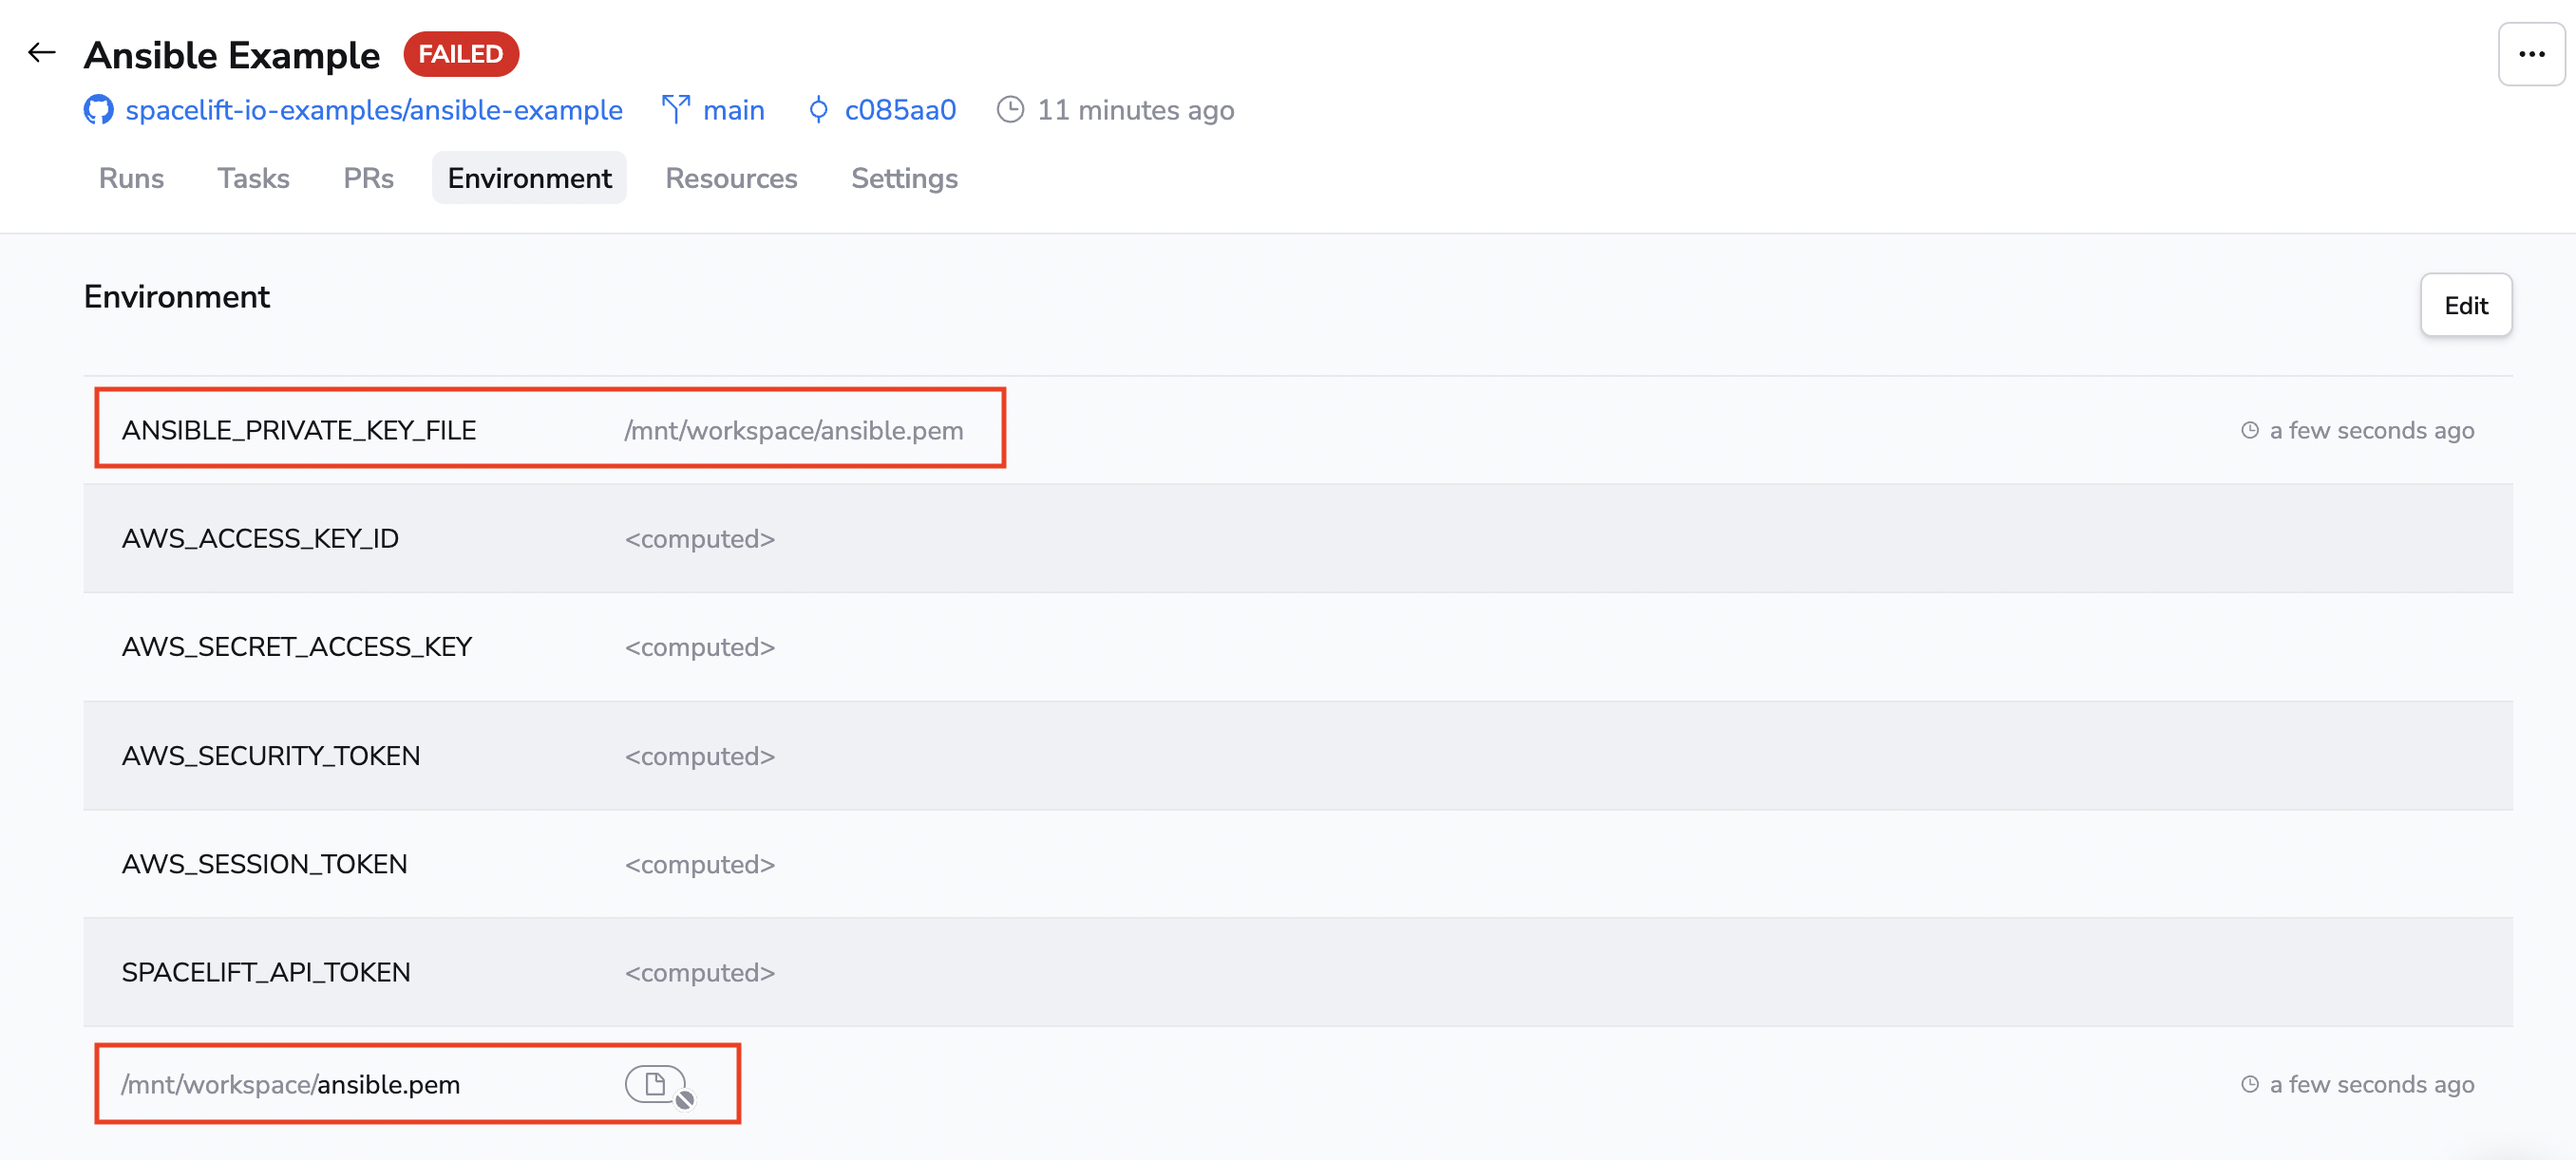
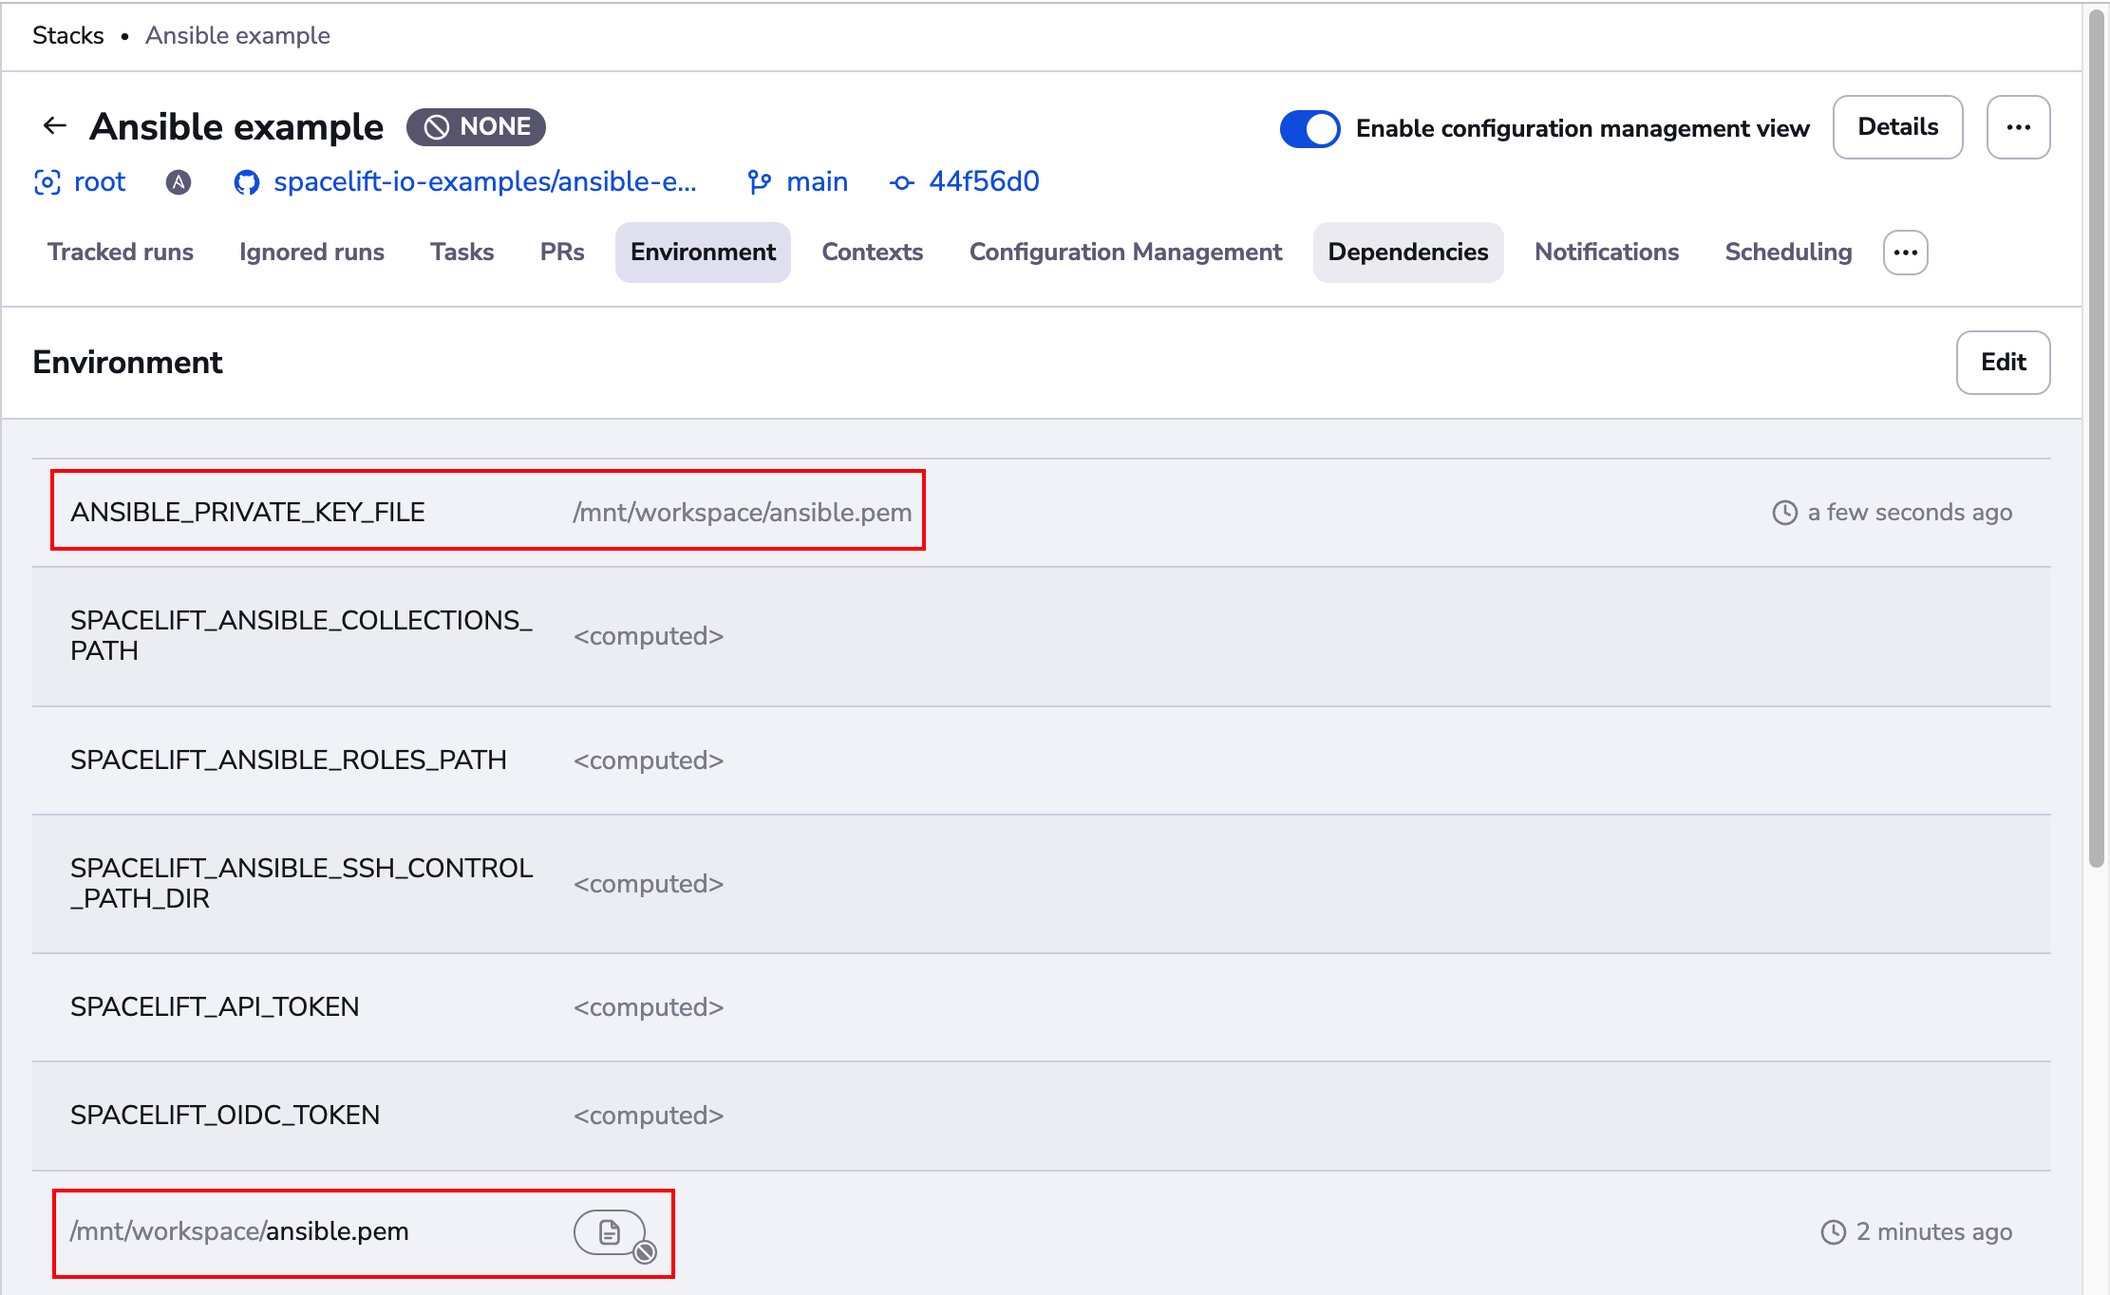
feat: update screenshots on the Ansible getting started guide
I've updated some of the screenshots on the Ansible getting started page. There are still some screenshots that are out of date right now, but I wanted to tackle the quick win ones that were misleading right now.

diff --git a/docs/vendors/ansible/getting-started.md b/docs/vendors/ansible/getting-started.md
@@ -20,23 +20,27 @@ Also, please take notice of the [Spacelift runtime config file](https://github.c
 
 In Spacelift, go ahead and click the **Add Stack** button to create a Stack in Spacelift.
 
-In the first tab, you should select the repository you've just forked, as can be seen in the picture.
+In the first step of the stack creation wizard, choose a name for your stack:
 
 ![Configuring the VCS settings.](../../assets/screenshots/ansible/ansible-1-create-new-stack.png)
 
-In the next tab, you should choose the **Ansible** backend. There, fill in the **Playbook** field with the playbook you want to run. In the case of our example, it is _playbook.yml_. You could also configure an option to [skip the planning phase](reference.md#stack-settings), but we will leave that disabled for now.
+In the next step, choose the repository that you have just cloned:
 
-![Configuring the backend settings.](../../assets/screenshots/ansible/ansible-2-configure-backend.png)
+![Choose GitHub repository](../../assets/screenshots/ansible/ansible-2-connect-to-source-code.png)
 
-On the next tab (**Define Behavior**), setting up a runner image with Ansible dependencies is required. You may use your image (with the Ansible version you choose and all the required dependencies) or use one of our [default ones](https://github.com/spacelift-io/runner-ansible){: rel="nofollow"}. In this example we are using an AWS-based runner image defined in the [runtime configuration file](#initial-setup): `public.ecr.aws/spacelift/runner-ansible-aws:latest`.
+Next, choose the Ansible vendor, and enter the name of the playbook you want to execute. In the case of our example, it is _playbook.yml_.
+
+![Choose vendor](../../assets/screenshots/ansible/ansible-3-choose-vendor.png)
+
+Next, continue to the _define behavior_ section, and enter a runner image to use. This should point at a container image that contains the version of Ansible you require. You may use your own image (with the Ansible version you choose and all the required dependencies) or use one of our [default ones](https://github.com/spacelift-io/runner-ansible){: rel="nofollow"}. In this example we are using an AWS-based runner image defined in the [runtime configuration file](#initial-setup): `public.ecr.aws/spacelift/runner-ansible-aws:latest`.
 
 If you have a private worker pool you'd like to use, you can specify it there instead of the default public one as well.
 
-Finally, choose a name for your Spacelift Stack on the last page. We'll use _Ansible Example_ again.
+![Define behavior](../../assets/screenshots/ansible/ansible-4-define-behavior.png)
 
-![Naming the Stack.](../../assets/screenshots/ansible/ansible-3-name-stack.png)
+At this stage, you can go ahead and continue to the end of the stack creation wizard and create your stack:
 
-![Our newly created Stack.](../../assets/screenshots/ansible/ansible-4-stack-created.png)
+![Our newly created Stack.](../../assets/screenshots/ansible/ansible-5-stack-created.png)
 
 ## Triggering the Stack
 
